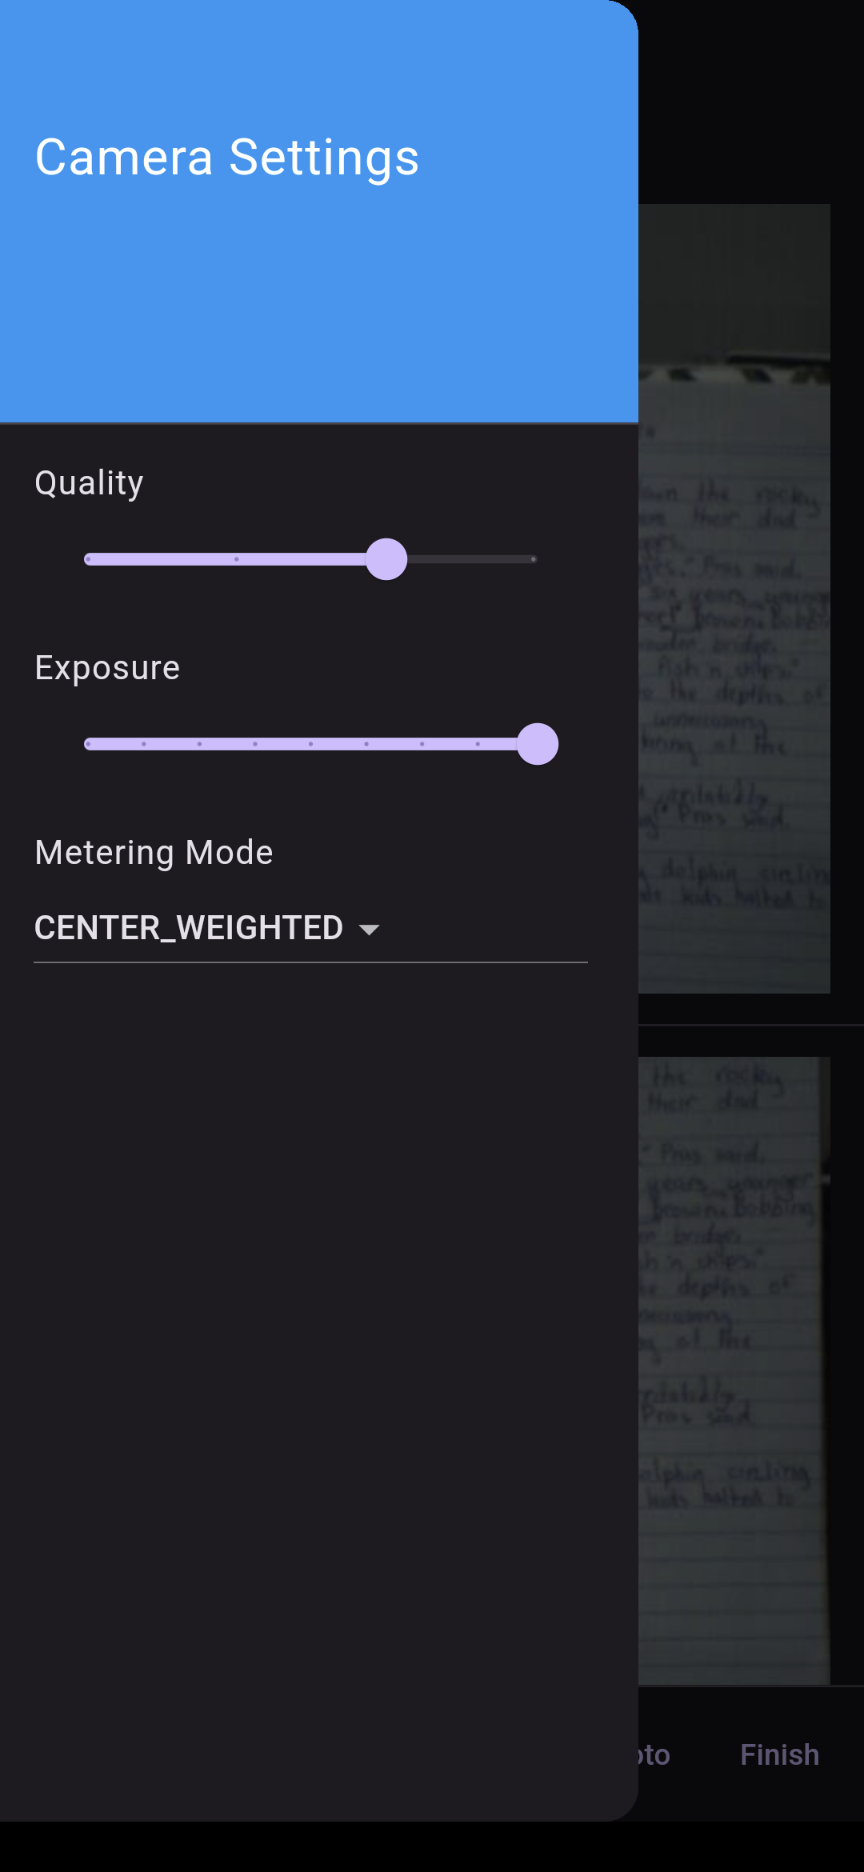
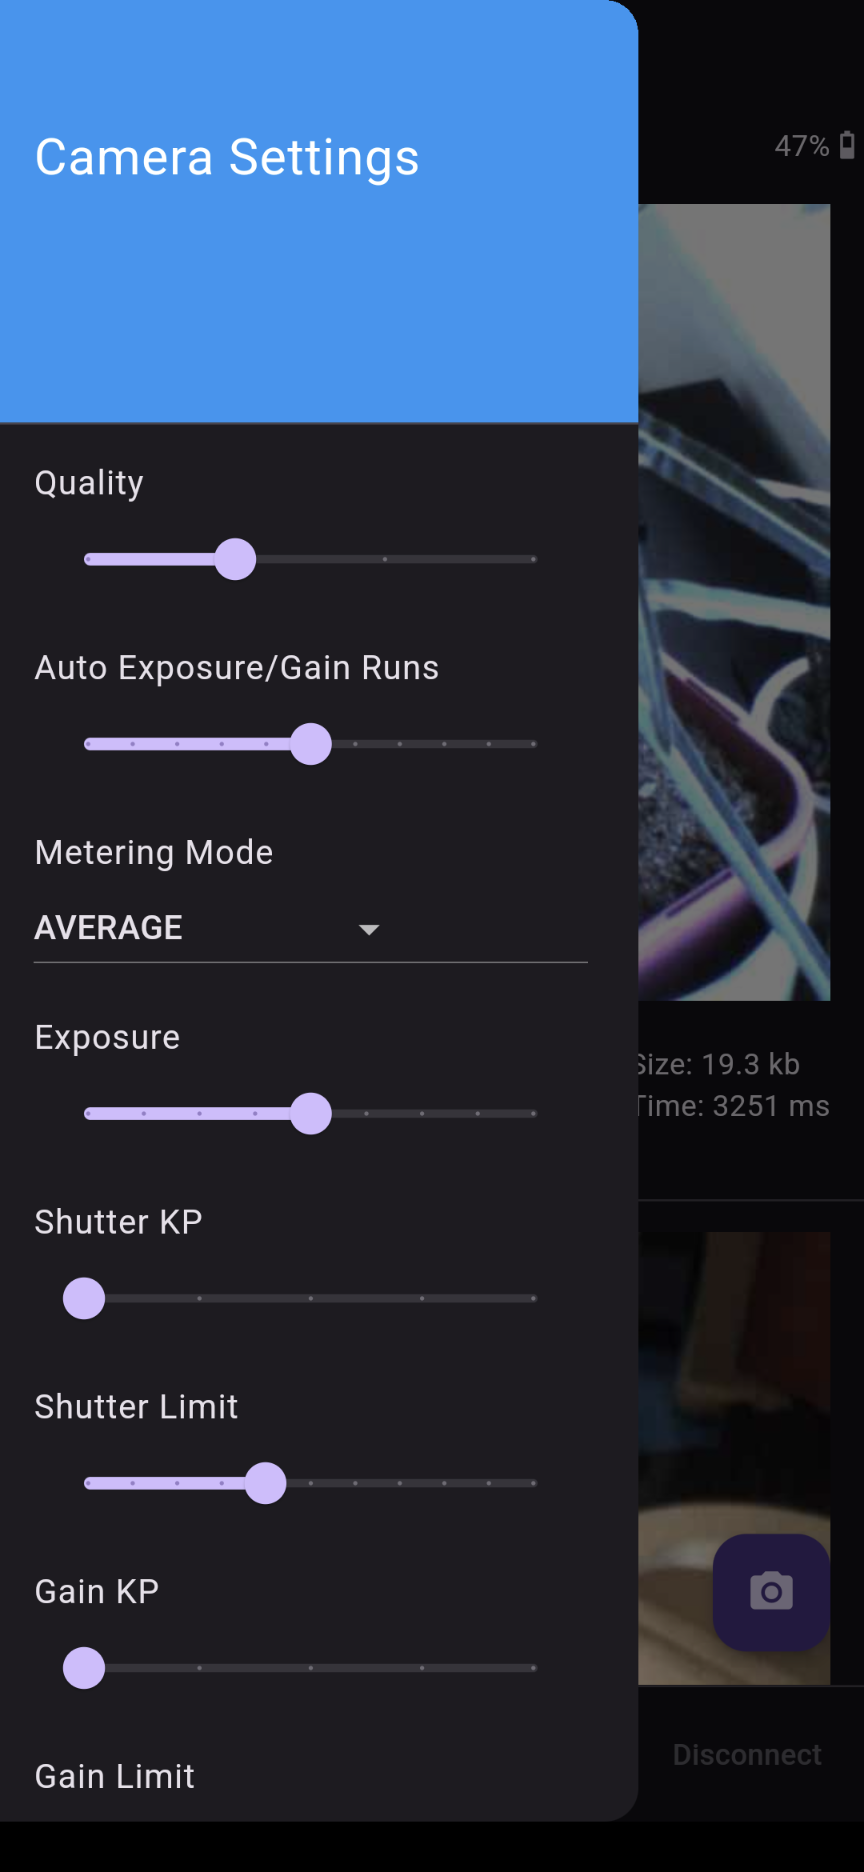
updated README

diff --git a/README.md b/README.md
@@ -2,7 +2,7 @@
 
 Connects to Frame, initiates a photo capture and returns the image to the host app for display in a scrollable list.
 
-Quality, Exposure and Metering Mode settings can be adjusted.
+Quality, Auto-Exposure/Gain Iterations, Metering Mode, Manual Exposure, Shutter KP/Shutter Limit, Gain KP/Gain Limit settings can be adjusted, and are displayed under each image.
 
 ### Screenshots
 ![Screenshot1](docs/screenshot1.png)
@@ -12,5 +12,5 @@ Quality, Exposure and Metering Mode settings can be adjusted.
 ![Architecture](docs/Frame%20App%20Architecture%20-%20Camera.svg)
 
 ### See Also
+- [Live Camera Feed](https://github.com/CitizenOneX/live_camera_feed)
 - [Simple Frame Hello World](https://github.com/CitizenOneX/simpleframe_helloworld)
-- [Frame Flutter Hello Hello](https://github.com/CitizenOneX/frame_flutter_hellohello)
